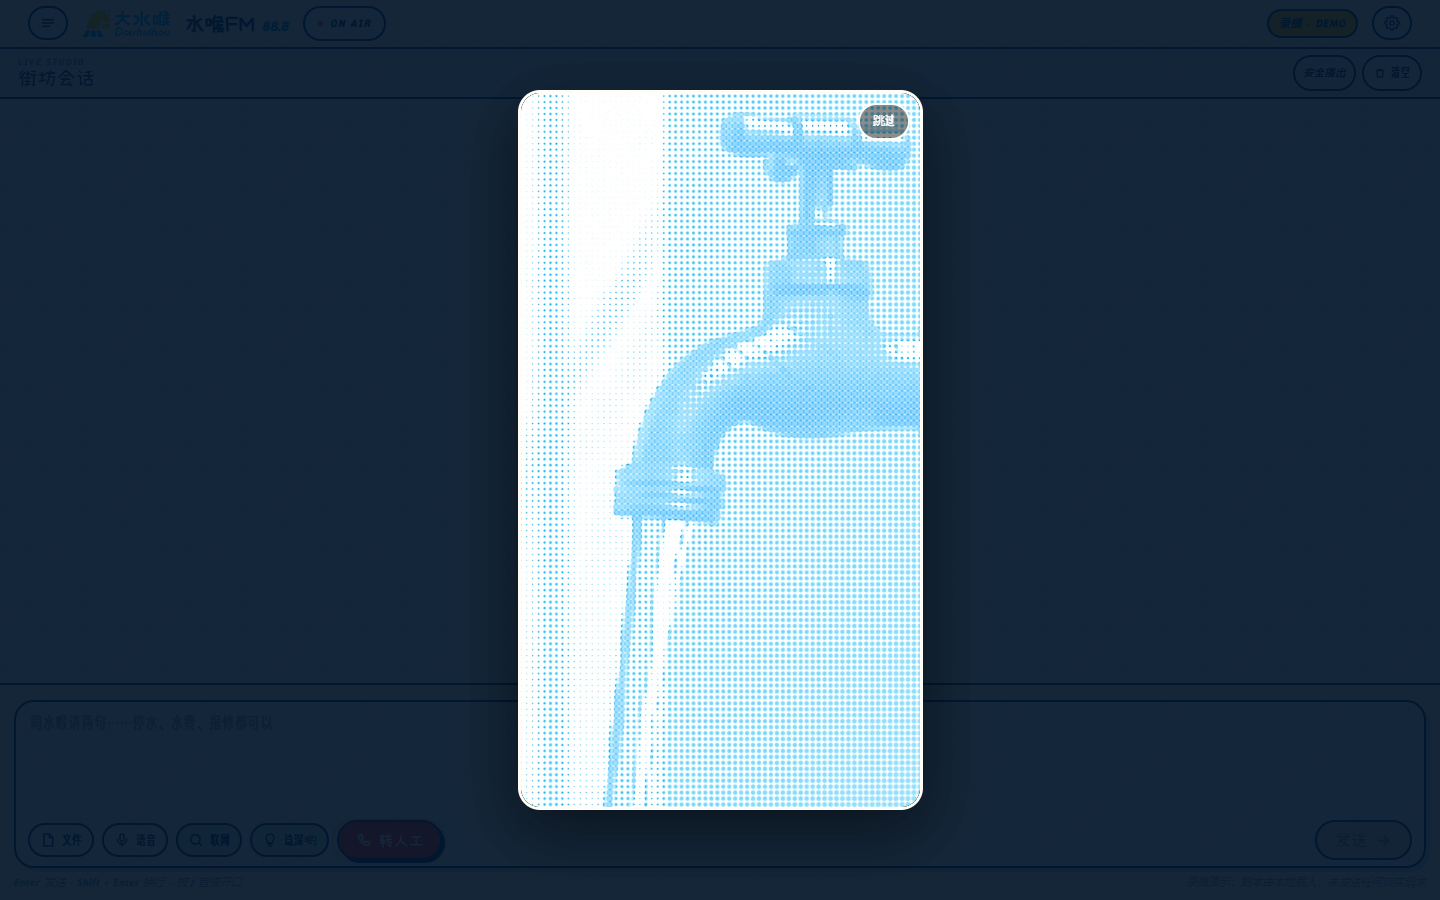
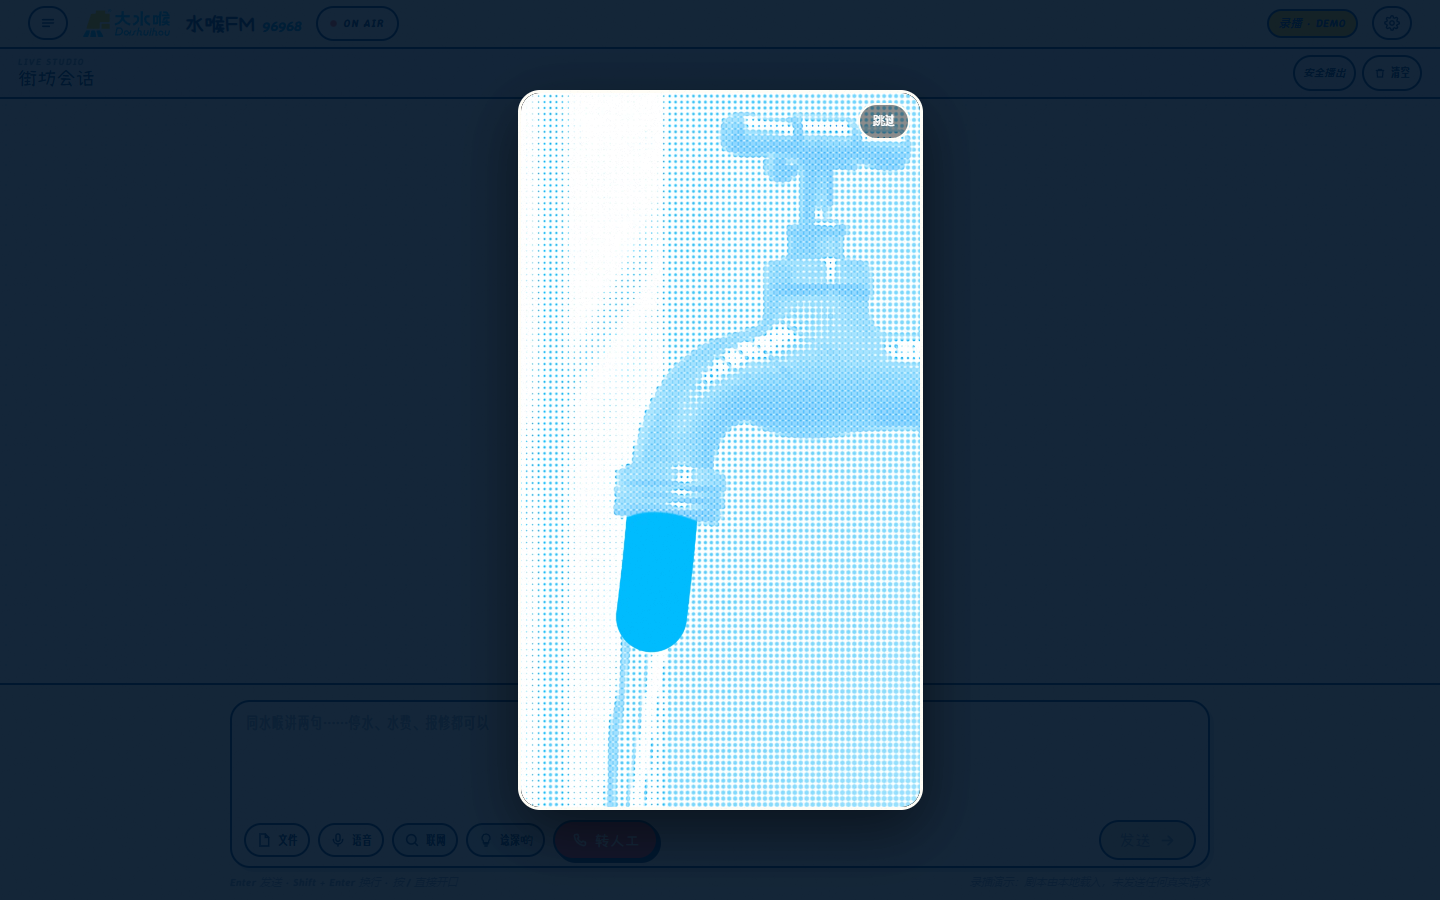
brand: 频道号 88.8 → 96968（水喉FM · 96968 街坊频道），同步截图与交付说明 v1.1

Changed region(s): [[0.4062, 0.56, 0.5, 0.7467], [0.4062, 0.7778, 0.4375, 0.84], [0.4062, 0.8711, 0.4375, 0.9022]]

diff --git a/index.html b/index.html
@@ -3,7 +3,7 @@
 <head>
 <meta charset="utf-8">
 <meta name="viewport" content="width=device-width, initial-scale=1, viewport-fit=cover">
-<title>水喉FM · AI 街坊电台｜「大水喉」家族 · 东莞水务环境集团文创品牌</title>
+<title>水喉FM · 96968 街坊频道｜「大水喉」家族 · 东莞水务环境集团文创品牌</title>
 <meta name="description" content="水喉FM 是东莞水务环境集团旗下文创品牌「大水喉」家族出品的 AI 街坊电台，「大水喉」任唯一主播兼品牌官方发言人。查停水、交水费、问水压、教节水、报维修——联网搜索、深度思考、文件解析、粤语朗读。">
 <meta name="theme-color" content="#004384">
 <link rel="icon" href="assets/img/logo-icon.svg" type="image/svg+xml">
@@ -34,7 +34,7 @@
     <img src="assets/img/logo-h.svg" alt="大水喉 Dashuihou">
   </a>
   <span class="appbar__station">
-    <b>水喉FM</b><i>88.8</i>
+    <b>水喉FM</b><i>96968</i>
   </span>
   <span class="topbar__onair"><i></i>ON AIR</span>
   <span class="spacer"></span>
@@ -117,7 +117,7 @@
     <div class="drawer__head">
       <div class="brandcard">
         <img src="assets/img/logo-stack.svg" alt="大水喉">
-        <div class="brandcard__freq">88.8<small>FM · 街坊频道</small></div>
+        <div class="brandcard__freq">96968<small>街坊频道</small></div>
         <span class="brandcard__live"><i></i>ON AIR</span>
       </div>
       <button class="drawer__close" type="button" data-close aria-label="收起目录">×</button>

diff --git a/voice.html b/voice.html
@@ -327,7 +327,7 @@ edge-tts --voice zh-HK-HiuMaanNeural --text "水喉FM，开咪啦。街坊嘅事
     <div class="foot__top">
       <div class="foot__logo">
         <img src="assets/img/logo-h-white.svg" alt="大水喉 Dashuihou">
-        <p>水喉FM · 88.8 街坊频道<br>声线试镜 · D 01<br>「大水喉」家族 · 东莞水务环境集团文创品牌</p>
+        <p>水喉FM · 96968 街坊频道<br>声线试镜 · D 01<br>「大水喉」家族 · 东莞水务环境集团文创品牌</p>
         <div class="foot__big">水嘅事，就系大事</div>
       </div>
       <div class="foot__col">
@@ -349,7 +349,7 @@ edge-tts --voice zh-HK-HiuMaanNeural --text "水喉FM，开咪啦。街坊嘅事
     </div>
     <div class="foot__bottom">
       <span>© 2025 DASHUIHOU ALL RIGHTS RESERVED · 声线试镜为设计提案</span>
-      <span>F.M. 88.8 · VOICE CASTING</span>
+      <span>96968 · VOICE CASTING</span>
     </div>
   </div>
 </footer>

diff --git a/assets/js/data.js b/assets/js/data.js
@@ -6,7 +6,7 @@
 
 export const STATION = {
   name: '水喉FM',
-  freq: '88.8',
+  freq: '96968',
   slogan: '水嘅事，就系大事。',
   motto: '街坊嘅事，我记得。',
   signOn: '水喉FM提提你：',

diff --git a/README.md b/README.md
@@ -1,11 +1,6 @@
-# 水喉FM · 88.8 街坊频道
+# 水喉FM · 96968 街坊频道
 
 **在线地址** · <https://thehoppsrock.github.io/shuihou-fm/> ｜ **仓库** · <https://github.com/THEHOPPSROCK/shuihou-fm> ｜ 托管：GitHub Pages（HTTPS）
-
-> **交付包 v1.0（2026-11-17）** —— 本包是可直接部署的手机优先静态站成品：
-> `index.html`（对话主入口）、`voice.html`（声线试镜）、`app.html`（旧链接跳转）、
-> `assets/`（样式／脚本／字库／插画／音频／动画）、`preview/`（成品截图）、`serve.cmd`（一键本机服务器）。
-> 过程文件（手册提取文本、API 调研、构建脚本、旧版备份）未随包提供，只在开发目录保留。
 
 > 用「大水喉」IP 设计语言做的 AI 街坊服务电台 Chatbot。
 > 品牌依据：《大水喉品牌视觉规范手册》《大水喉IP基础规范手册》《大水喉世界观 v1.1》
@@ -31,7 +26,7 @@
 这四条已经写进真实频道的 system prompt（`assets/js/chat.js`）、自我介绍与「家族成员」问答（`assets/js/data.js`）。
 
 命名不需要另起：**《大水喉世界观》2.1 明确写着同事昵称就是「水喉 FM」**，本设计把它从一句设定做成一个产品。
-「FM 88.8」、台呼、节目表属于**本次设计提案**（品牌资产里只有「水喉FM 提提你……」这一条既定播报句式），提案部分在 `assets/js/data.js` 中单独标注。
+「96968 频道号」、台呼、节目表属于**本次设计提案**（品牌资产里只有「水喉FM 提提你……」这一条既定播报句式），提案部分在 `assets/js/data.js` 中单独标注。
 
 页面分两件：
 
@@ -78,7 +73,7 @@ python -m http.server 8811     # 或 pnpm dlx serve / 任意静态服务器
 
 - 标题：**小赖字体 等宽 SC Regular**（手册要求「描边根据字体大小调整粗细，以接近字体规范粗度」——网页用字重补偿替代印刷描边）
 - 正文：**JinzisheDezheng Regular**
-- 英文：**Winky Rough Bold Italic**（大量用在 `ON AIR`、`FM 88.8`、节目编号 `B 02-1`）
+- 英文：**Winky Rough Bold Italic**（大量用在 `ON AIR`、`96968`、节目编号 `B 02-1`）
 
 三套字体都做了**子集化**（只保留页面实际用字，22 MB → 126–167 KB），见 `assets/fonts/`。
 JinzisheDezheng 缺粤语字（嘅、喺、咗、啫、唔），页面按 font stack 自动回落小赖字体——正文里的粤语助词因此会带一点手写感，这是取舍后的结果，并非错字。
@@ -120,7 +115,7 @@ JinzisheDezheng 缺粤语字（嘅、喺、咗、啫、唔），页面按 font s
 
 ```
 ┌──────────┬───────────────────────────────┬──────────────┐
-│ 台标/88.8 │  节目条 · 会话标题 · 安全播出    │  主播间       │
+│台标/96968│  节目条 · 会话标题 · 安全播出    │  主播间       │
 │ 今日节目表│  对话区（广播稿 / 听众来电）    │  角色状态     │
 │ 饮水打卡  │  输入区（文件/语音/联网/谂深啲）│  今日金句     │
 │          │                               │  贴纸 · 信号  │
@@ -200,7 +195,7 @@ edge-tts --voice zh-HK-HiuGaaiNeural --rate=-3% --pitch=-16Hz `
 
 ## 8. 已知边界
 - **录播剧本是演示内容**：停水时间、来源站点、水费说明均为示意，不代表真实查询结果，页面内已标注。
-- **88.8、台呼、节目表、主播间** 是本次设计提案，品牌既有资产里没有，属可讨论的延展。
+- **96968 频道号、台呼、节目表、主播间** 是本次设计提案，品牌既有资产里没有，属可讨论的延展。
 - 真实频道需要用户自带 API Key；页面不设后端，Key 存 localStorage，浏览器直连 DeepSeek（CORS 已实测可用，但仍建议正式产品走服务端代理，避免 Key 暴露）。
 - 朗读：真实频道走 DeepSeek TTS（`stella` / `tide`）；录播模式退回浏览器 `speechSynthesis`（有粤语声线则用粤语）。
 - 语音输入：录播模式用浏览器 `SpeechRecognition`；真实频道录 MediaRecorder → 转 16 kHz WAV → `/v1/tools/asr`（MediaRecorder 的 webm/opus 接口不收，必须转码）。
@@ -209,7 +204,7 @@ edge-tts --voice zh-HK-HiuGaaiNeural --rate=-3% --pitch=-16Hz `
 ## 9. 文件清单
 
 ```
-水喉FM-v1.0/
+dshuihou/
 ├─ index.html          精简台标 + 全屏直播室（主入口）
 ├─ app.html            旧链接跳转页
 ├─ voice.html          声线试镜（D01）：候选声线、试听、盲测
@@ -228,7 +223,8 @@ edge-tts --voice zh-HK-HiuGaaiNeural --rate=-3% --pitch=-16Hz `
 │  ├─ video/           大水喉品牌动画（9:16，12s）
 │  ├─ img/             标志 SVG、角色 WebP、颗粒底纹
 │  └─ fonts/           子集化 woff2
-└─ preview/            成品截图（桌面／手机／抽屉／动画／设置／声线）
+├─ preview/            版面截图
+└─ _research/          提取文本、API 与音色调研、构建脚本、过程截图
 ```
 
 ## 10. 变更记录
@@ -251,6 +247,8 @@ edge-tts --voice zh-HK-HiuGaaiNeural --rate=-3% --pitch=-16Hz `
   - 删除右侧主播栏（主播间／金句／贴纸／信号）；左侧节目表＋饮水打卡收进 ☰ 抽屉。
   - 单栏全屏对话；`100dvh` + 刘海安全区；桌面端消息列限宽 920px。
   - 设置页新增「导入 DeepSeek 导出文件…」一键导入对话历史。
+- **2026-11-17 · 频道号更新**：站名由「水喉FM · 88.8 街坊频道」改为「**水喉FM · 96968 街坊频道**」；
+  台标、抽屉品牌卡、页面标题、声线页页脚、交付说明与 README 全站同步（`96968` 即供水服务热线号码）。
   - 矮屏（≤800px 高）自动隐藏输入框下面那行操作提示，把高度留返对话区。
 
 
